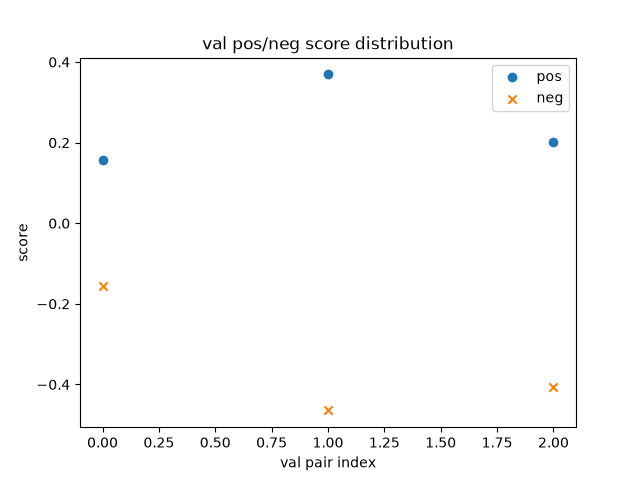
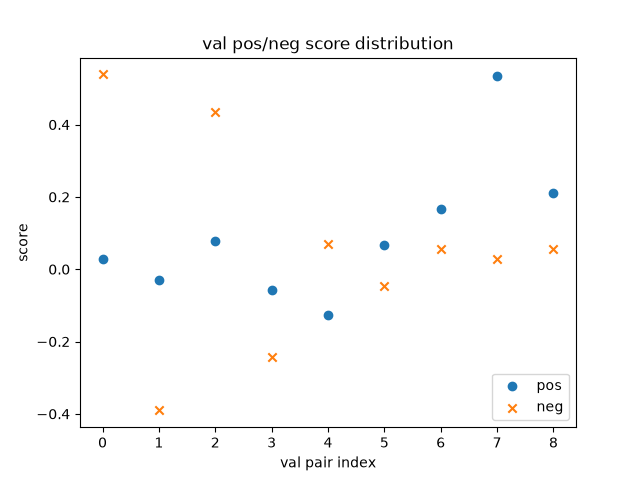
refactor(data): MLP 학습 데이터를 Unsplash pairs.csv/photos.csv로 전환
수동 라벨링 12쌍(label_pairs.json)을 삭제하고, dataset.py가 Unsplash 수집
데이터(45쌍)를 photo_id로 조회하도록 변경 — 이미지 재오픈·CLIP 재계산 불필요.
evaluate_mlp.py의 split_pairs를 테마별 고정 분할로 변경(단순 앞/뒤 분할은
val이 마지막 테마에만 쏠림). 실측: loss 0.205->0.076, val ranking accuracy
66.67%(6/9) — 기존 12쌍(100%)보다 낮음, 원인은 문서에 기록.

diff --git a/tests/ai/test_dataset.py b/tests/ai/test_dataset.py
@@ -1,30 +1,87 @@
-"""Ai/dataset.py 라벨 데이터 로딩 단위 테스트.
+"""Ai/dataset.py 트리플렛/피처 로딩 단위 테스트.
 
-load_label_pairs는 JSON 파싱만 하므로 CLIP 없이 빠르게 실행됨
-(build_feature_vector까지 엮은 검증은 tests/ai/test_dataset_integration.py 참고).
+CSV 파싱 + 딕셔너리 조회만 하므로 CLIP·네트워크 없이 빠르게 실행됨
+(collect_unsplash_data.py가 피처를 이미 계산해 photos.csv에 저장해 두기 때문).
 """
 
-import json
+import numpy as np
+import torch
+from dataset import (
+    DEFAULT_PAIRS_PATH,
+    DEFAULT_PHOTOS_PATH,
+    FEATURE_FIELDS,
+    build_pair_features,
+    load_label_pairs,
+    load_photo_features,
+)
 
-from dataset import DEFAULT_LABEL_PATH, load_label_pairs
+
+def _write_photos_csv(path, rows):
+    import csv
+
+    with open(path, "w", newline="", encoding="utf-8") as f:
+        writer = csv.DictWriter(f, fieldnames=["photo_id", "query", "unsplash_url"] + FEATURE_FIELDS)
+        writer.writeheader()
+        writer.writerows(rows)
+
+
+def _write_pairs_csv(path, rows):
+    import csv
+
+    with open(path, "w", newline="", encoding="utf-8") as f:
+        writer = csv.DictWriter(f, fieldnames=["theme", "pos", "neg"])
+        writer.writeheader()
+        writer.writerows(rows)
 
 
 def test_load_label_pairs_returns_theme_pos_neg_dicts(tmp_path):
-    label_path = tmp_path / "pairs.json"
-    label_path.write_text(
-        json.dumps([{"theme": "테마", "pos": "samples/a.JPG", "neg": "samples/b.JPG"}]),
-        encoding="utf-8",
-    )
+    pairs_path = tmp_path / "pairs.csv"
+    _write_pairs_csv(pairs_path, [{"theme": "minimal", "pos": "p1", "neg": "p2"}])
 
-    pairs = load_label_pairs(label_path)
+    pairs = load_label_pairs(pairs_path)
 
-    assert pairs == [{"theme": "테마", "pos": "samples/a.JPG", "neg": "samples/b.JPG"}]
+    assert pairs == [{"theme": "minimal", "pos": "p1", "neg": "p2"}]
 
 
-def test_default_label_path_points_to_valid_schema():
-    """저장소에 커밋된 실제 라벨 파일(Ai/data/label_pairs.json)이 스키마를 지키는지 확인."""
-    pairs = load_label_pairs(DEFAULT_LABEL_PATH)
+def test_load_photo_features_maps_photo_id_to_11d_vector(tmp_path):
+    photos_path = tmp_path / "photos.csv"
+    feat_values = {field: str(i) for i, field in enumerate(FEATURE_FIELDS)}
+    _write_photos_csv(photos_path, [{"photo_id": "p1", "query": "minimal", "unsplash_url": "u", **feat_values}])
+
+    features = load_photo_features(photos_path)
+
+    assert list(features.keys()) == ["p1"]
+    np.testing.assert_array_equal(features["p1"], np.arange(len(FEATURE_FIELDS), dtype=np.float32))
+
+
+def test_build_pair_features_looks_up_by_photo_id_not_by_reopening_images():
+    pairs = [{"theme": "minimal", "pos": "p1", "neg": "p2"}]
+    photo_features = {
+        "p1": np.array([1.0] * len(FEATURE_FIELDS), dtype=np.float32),
+        "p2": np.array([2.0] * len(FEATURE_FIELDS), dtype=np.float32),
+    }
+
+    feats_pos, feats_neg = build_pair_features(pairs, photo_features)
+
+    assert feats_pos.shape == (1, len(FEATURE_FIELDS))
+    assert feats_neg.shape == (1, len(FEATURE_FIELDS))
+    assert torch.equal(feats_pos[0], torch.from_numpy(photo_features["p1"]))
+    assert torch.equal(feats_neg[0], torch.from_numpy(photo_features["p2"]))
+
+
+def test_default_paths_point_to_valid_committed_data():
+    """저장소에 커밋된 실제 데이터(Ai/data/unsplash/*.csv)가 스키마를 지키는지 확인."""
+    pairs = load_label_pairs(DEFAULT_PAIRS_PATH)
+    photo_features = load_photo_features(DEFAULT_PHOTOS_PATH)
 
     assert len(pairs) > 0
     for pair in pairs:
         assert pair.keys() == {"theme", "pos", "neg"}
+        assert pair["pos"] in photo_features
+        assert pair["neg"] in photo_features
+
+    feats_pos, feats_neg = build_pair_features(pairs, photo_features)
+    assert feats_pos.shape == (len(pairs), len(FEATURE_FIELDS))
+    assert feats_neg.shape == (len(pairs), len(FEATURE_FIELDS))
+    assert torch.isfinite(feats_pos).all()
+    assert torch.isfinite(feats_neg).all()

diff --git a/Ai/dataset.py b/Ai/dataset.py
@@ -1,37 +1,57 @@
-"""라벨 데이터(pos/neg 쌍)를 읽어 build_feature_vector로 피처화 (MLP 학습 입력 준비).
+"""Unsplash pos/neg 트리플렛(pairs.csv) 로딩 + photos.csv에서 피처 조회 (MLP 학습 입력 준비).
 
-흐름: Ai/data/label_pairs.json({theme, pos, neg} 목록) -> 저장소 루트 기준으로
-      사진을 열어 build_feature_vector로 피처화 -> (feats_pos, feats_neg) 텐서 쌍
+흐름: Ai/data/unsplash/pairs.csv({theme, pos, neg} 목록) + Ai/data/unsplash/photos.csv
+      (photo_id -> 11차원 피처) -> photo_id로 피처 조회 -> (feats_pos, feats_neg) 텐서 쌍
 """
 
 from __future__ import annotations
 
-import json
+import csv
 from pathlib import Path
 
 import numpy as np
 import torch
 
-from mlp import build_feature_vector
+DEFAULT_PAIRS_PATH = Path(__file__).resolve().parent / "data" / "unsplash" / "pairs.csv"
+DEFAULT_PHOTOS_PATH = Path(__file__).resolve().parent / "data" / "unsplash" / "photos.csv"
 
-REPO_ROOT = Path(__file__).resolve().parent.parent
-DEFAULT_LABEL_PATH = Path(__file__).resolve().parent / "data" / "label_pairs.json"
+# collect_unsplash_data.py의 FEATURE_FIELDS와 동일한 순서 — photos.csv 컬럼이 이 순서로 저장돼 있음
+FEATURE_FIELDS = [
+    "clip_sim", "mean_h", "mean_s", "mean_v", "sat_std", "val_std", "contrast",
+    "hue_hist_0", "hue_hist_1", "hue_hist_2", "hue_hist_3",
+]
 
 
-def load_label_pairs(path: str | Path = DEFAULT_LABEL_PATH) -> list[dict]:
-    """라벨 JSON({theme, pos, neg} 리스트)을 읽어 그대로 반환."""
+def load_label_pairs(path: str | Path = DEFAULT_PAIRS_PATH) -> list[dict]:
+    """pairs.csv({theme, pos, neg} 트리플렛)를 읽어 딕셔너리 리스트로 반환."""
     with open(path, encoding="utf-8") as f:
-        return json.load(f)
+        return list(csv.DictReader(f))
 
 
-def build_pair_features(pairs: list[dict]) -> tuple[torch.Tensor, torch.Tensor]:
-    """라벨 쌍 목록 -> (feats_pos, feats_neg) 텐서. mlp.rank_forward에 바로 사용 가능.
+def load_photo_features(path: str | Path = DEFAULT_PHOTOS_PATH) -> dict[str, np.ndarray]:
+    """photos.csv를 photo_id -> 11차원 피처 벡터 딕셔너리로 로딩."""
+    features = {}
+    with open(path, encoding="utf-8") as f:
+        for row in csv.DictReader(f):
+            features[row["photo_id"]] = np.array(
+                [float(row[field]) for field in FEATURE_FIELDS], dtype=np.float32
+            )
+    return features
 
-    쌍의 pos/neg 경로는 저장소 루트 기준 상대 경로("samples/...")로 저장돼 있어
-    REPO_ROOT를 기준으로 절대 경로로 바꿔 읽는다.
+
+def build_pair_features(
+    pairs: list[dict], photo_features: dict[str, np.ndarray] | None = None
+) -> tuple[torch.Tensor, torch.Tensor]:
+    """트리플렛 목록 -> (feats_pos, feats_neg) 텐서. mlp.rank_forward에 바로 사용 가능.
+
+    photos.csv에 미리 계산된 피처를 photo_id로 조회하기만 해서, 사진을 다시 열거나
+    CLIP을 재계산하지 않는다(collect_unsplash_data.py가 이미 다 계산해 둠).
     """
-    feats_pos = [build_feature_vector(REPO_ROOT / pair["pos"], pair["theme"]) for pair in pairs]
-    feats_neg = [build_feature_vector(REPO_ROOT / pair["neg"], pair["theme"]) for pair in pairs]
+    if photo_features is None:
+        photo_features = load_photo_features()
+
+    feats_pos = [photo_features[pair["pos"]] for pair in pairs]
+    feats_neg = [photo_features[pair["neg"]] for pair in pairs]
 
     return torch.from_numpy(np.stack(feats_pos)), torch.from_numpy(np.stack(feats_neg))
 

diff --git a/Ai/evaluate_mlp.py b/Ai/evaluate_mlp.py
@@ -1,6 +1,6 @@
 """학습된 ScoringMLP의 validation ranking accuracy 확인 + loss curve/점수 분포 시각화.
 
-흐름: Ai/data/label_pairs.json -> dataset.load_label_pairs -> split_pairs로 train(9)/val(3) 고정 분할
+흐름: Ai/data/unsplash/pairs.csv -> dataset.load_label_pairs -> split_pairs로 테마별 train/val 고정 분할
       -> train_mlp.train(train)으로 학습 -> val에 대해 ranking accuracy 측정
       -> loss curve, val 점수 분포를 docs/ai/output/에 PNG로 저장
 """
@@ -21,12 +21,23 @@ from train_mlp import train
 
 REPO_ROOT = Path(__file__).resolve().parent.parent
 OUTPUT_DIR = REPO_ROOT / "docs" / "ai" / "output"
-N_VAL = 3
+N_VAL_PER_THEME = 3
 
 
-def split_pairs(pairs: list[dict], n_val: int = N_VAL) -> tuple[list[dict], list[dict]]:
-    """라벨 쌍을 앞쪽 train / 뒤쪽 val로 고정 분할 (데이터가 12쌍뿐이라 랜덤 분할 대신 고정)."""
-    return pairs[:-n_val], pairs[-n_val:]
+def split_pairs(pairs: list[dict], n_val_per_theme: int = N_VAL_PER_THEME) -> tuple[list[dict], list[dict]]:
+    """테마별로 뒤쪽 n_val_per_theme개를 val, 나머지를 train으로 고정 분할.
+
+    pairs.csv가 테마별로 연속해서 묶여 있어(테마당 15행), 앞/뒤 단순 분할을 하면
+    val이 마지막 테마 하나에만 쏠린다 — 테마마다 나눠야 val이 모든 테마를 대표한다.
+    """
+    train_pairs, val_pairs = [], []
+    by_theme: dict[str, list[dict]] = {}
+    for pair in pairs:
+        by_theme.setdefault(pair["theme"], []).append(pair)
+    for theme_pairs in by_theme.values():
+        train_pairs.extend(theme_pairs[:-n_val_per_theme])
+        val_pairs.extend(theme_pairs[-n_val_per_theme:])
+    return train_pairs, val_pairs
 
 
 def ranking_accuracy(model: ScoringMLP, feats_pos: torch.Tensor, feats_neg: torch.Tensor) -> float:

diff --git a/tests/ai/test_evaluate_mlp.py b/tests/ai/test_evaluate_mlp.py
@@ -8,18 +8,20 @@ import pytest
 import torch
 from torch import nn
 
-from evaluate_mlp import N_VAL, plot_loss_curve, plot_score_distribution, ranking_accuracy, split_pairs
+from evaluate_mlp import N_VAL_PER_THEME, plot_loss_curve, plot_score_distribution, ranking_accuracy, split_pairs
 
 
-def test_split_pairs_default_keeps_9_train_3_val():
-    pairs = [{"theme": "t", "pos": f"p{i}", "neg": f"n{i}"} for i in range(12)]
+def test_split_pairs_splits_each_theme_separately_not_just_the_last_rows():
+    """테마별로 연속해서 묶인 입력이라도, val이 한 테마에만 쏠리지 않고 테마마다 나뉘어야 한다."""
+    pairs = [{"theme": "a", "pos": f"pa{i}", "neg": f"na{i}"} for i in range(15)]
+    pairs += [{"theme": "b", "pos": f"pb{i}", "neg": f"nb{i}"} for i in range(15)]
 
     train_pairs, val_pairs = split_pairs(pairs)
 
-    assert len(train_pairs) == 12 - N_VAL
-    assert len(val_pairs) == N_VAL
-    assert train_pairs == pairs[: 12 - N_VAL]
-    assert val_pairs == pairs[12 - N_VAL :]
+    assert len(val_pairs) == 2 * N_VAL_PER_THEME
+    assert len(train_pairs) == len(pairs) - 2 * N_VAL_PER_THEME
+    assert sum(1 for p in val_pairs if p["theme"] == "a") == N_VAL_PER_THEME
+    assert sum(1 for p in val_pairs if p["theme"] == "b") == N_VAL_PER_THEME
 
 
 class _SumModel(nn.Module):

diff --git a/Ai/train_mlp.py b/Ai/train_mlp.py
@@ -1,6 +1,6 @@
 """ScoringMLP 학습 스크립트 (rank_forward + margin_ranking_loss).
 
-흐름: Ai/data/label_pairs.json -> dataset.load_label_pairs -> dataset.build_pair_features
+흐름: Ai/data/unsplash/pairs.csv -> dataset.load_label_pairs -> dataset.build_pair_features
       -> ScoringMLP를 pairwise ranking loss로 학습
 """
 

diff --git a/docs/ai/Dataset.md b/docs/ai/Dataset.md
@@ -1,38 +1,41 @@
-# 라벨 데이터 로딩 (`Ai/dataset.py`)
+# 트리플렛/피처 로딩 (`Ai/dataset.py`)
 
-> 작성일: 2026-08-27 · 작성자: 진오 · 관련 이슈: test/mlp-학습-파이프라인/4
+> 작성일: 2026-08-27 · 최종 수정: 2026-09-15 · 작성자: 진오 · 관련 이슈: test/mlp-학습-파이프라인/4, #9
 
 ## 📌 목적
-`Ai/data/label_pairs.json`의 라벨 쌍(theme, pos, neg)을 읽어 `build_feature_vector`로 피처화하고, 학습 루프에 바로 넣을 수 있는 배치 텐서로 만든다.
+`Ai/data/unsplash/pairs.csv`의 `{theme, pos, neg}` 트리플렛을 읽고, `Ai/data/unsplash/photos.csv`에 미리 계산돼 있는 11차원 피처를 `photo_id`로 조회해 학습 루프에 바로 넣을 수 있는 배치 텐서로 만든다.
 
 ## 🧭 파이프라인 상 위치
-"MLP 모델 설계" 단계와 (아직 미구현인) 학습 스크립트 사이의 데이터 로더.
+"MLP 모델 설계" 단계와 학습 스크립트(`Ai/train_mlp.py`) 사이의 데이터 로더.
 
 - Layer: Layer 1 · 테마 적합도 스코어링 > 학습 데이터 로딩
-- 이전 단계: 라벨 데이터(`Ai/data/label_pairs.json`) + `build_feature_vector`(`mlp.py`)
-- 다음 단계: 학습 스크립트(`Ai/train_mlp.py`, 미구현) — `rank_forward` + `margin_ranking_loss`
+- 이전 단계: `Ai/collect_unsplash_data.py`가 만든 `photos.csv`(피처)/`pairs.csv`(트리플렛)
+- 다음 단계: 학습 스크립트(`Ai/train_mlp.py`) — `rank_forward` + `margin_ranking_loss`, 평가 스크립트(`Ai/evaluate_mlp.py`)
 
 ## 🔧 입출력 스펙
 
 | 함수 | 입력 | 출력 | 설명 |
 |---|---|---|---|
-| `load_label_pairs` | `path` (기본값 `Ai/data/label_pairs.json`) | `list[dict]` | `{theme, pos, neg}` 라벨 쌍을 그대로 반환 |
-| `build_pair_features` | `pairs: list[dict]` | `(feats_pos, feats_neg)` (각 `torch.Tensor`, shape `(N, 11)`) | 쌍마다 pos/neg 사진을 `build_feature_vector`로 피처화해 배치로 묶음 |
+| `load_label_pairs` | `path` (기본값 `Ai/data/unsplash/pairs.csv`) | `list[dict]` | `{theme, pos, neg}` 트리플렛을 그대로 반환 (`pos`/`neg`는 `photo_id`) |
+| `load_photo_features` | `path` (기본값 `Ai/data/unsplash/photos.csv`) | `dict[str, np.ndarray]` | `photo_id -> 11차원 피처 벡터` 딕셔너리 |
+| `build_pair_features` | `pairs: list[dict], photo_features: dict \| None` | `(feats_pos, feats_neg)` (각 `torch.Tensor`, shape `(N, 11)`) | 트리플렛의 `pos`/`neg` id로 `photo_features`를 조회해 배치로 묶음 |
 
 ## 🧠 설계 결정과 이유
 
-- 결정: `build_pair_features`는 사진마다 `build_feature_vector`를 그대로 재사용 (CLIP/색감 피처를 직접 다시 호출하지 않음)
-  - 이유: 피처 추출 로직(11d 구성)의 단일 소스를 `mlp.py`에 유지하기 위해 — 두 곳에서 같은 로직을 따로 구현하면 나중에 `INPUT_DIM`이 바뀔 때 한쪽만 갱신되는 버그가 생기기 쉬움
-- 결정: 라벨 쌍의 `pos`/`neg` 경로는 저장소 루트 기준 상대 경로(`"samples/..."`)로 저장돼 있고, `REPO_ROOT`(= `Ai/`의 부모 디렉터리)를 기준으로 절대 경로로 바꿔 읽음
-  - 이유: `pytest`(작업 디렉터리가 저장소 루트)와 `python Ai/dataset.py`(작업 디렉터리가 `Ai/`일 수 있음)처럼 실행 방식에 따라 현재 작업 디렉터리(cwd)가 달라져도 항상 같은 파일을 가리키게 하기 위해
-- 결정: `feats_pos`/`feats_neg`를 각각 리스트로 모은 뒤 `np.stack`으로 `(N, 11)` 배열을 만들고 `torch.from_numpy`로 변환
+- 결정(변경): 사진마다 `build_feature_vector`를 다시 호출하는 대신, `photos.csv`에 미리 계산된 피처를 `photo_id`로 조회
+  - 이유: 원래 `Ai/data/label_pairs.json`(수동 라벨링 12쌍) 시절엔 매번 이미지를 열어 CLIP을 재계산했는데, Unsplash 데이터로 전환하면서(이슈 #9) 이미지 자체를 로컬에 저장하지 않기로 결정 — 애초에 다시 열 이미지가 없어서, `collect_unsplash_data.py`가 수집 시점에 한 번 계산해 둔 피처를 재사용하는 구조로 바뀜. 부수적으로 이전 TODO였던 "같은 사진이 여러 쌍에 등장하면 CLIP을 반복 계산"하는 비효율도 자연히 해소됨(딕셔너리 조회 1회로 끝)
+- 결정: `label_pairs.json`(JSON, 이미지 경로 기반) 대신 `pairs.csv`(CSV, `photo_id` 기반)를 읽음 — `load_label_pairs` 함수명은 유지
+  - 이유: `train_mlp.py`/`evaluate_mlp.py`가 이 함수명으로 import하고 있어, 이름을 유지하면 두 스크립트를 전혀 건드리지 않고 데이터 소스만 교체할 수 있음(사용자가 "dataset.py의 로딩 로직만 바꾸자"고 명시적으로 요청)
+- 결정: `build_pair_features`가 `photo_features` 딕셔너리를 선택적 인자로 받음(없으면 기본 경로에서 로딩)
+  - 이유: 테스트에서 실제 CSV 파일 없이도 가짜 피처 딕셔너리를 주입해 순수 로직만 검증할 수 있게 하기 위해 — 이 덕분에 이 모듈은 더 이상 CLIP/네트워크에 의존하지 않아 `tests/ai/test_dataset_integration.py`(통합 테스트)가 필요 없어짐(삭제)
+- 결정: `feats_pos`/`feats_neg`를 각각 리스트로 모은 뒤 `np.stack`으로 `(N, 11)` 배열을 만들고 `torch.from_numpy`로 변환 (유지)
   - 이유: `rank_forward`/`margin_ranking_loss`가 배치 입력을 기대하므로, 쌍 하나하나를 개별 처리하지 않고 N개를 한 번에 forward pass 돌릴 수 있는 형태로 미리 묶어둠
 
 ## ⚙ 동작 흐름
 
 ```python
-pairs = load_label_pairs()  # Ai/data/label_pairs.json -> [{theme, pos, neg}, ...]
-feats_pos, feats_neg = build_pair_features(pairs)  # (N, 11), (N, 11)
+pairs = load_label_pairs()  # Ai/data/unsplash/pairs.csv -> [{theme, pos, neg}, ...]
+feats_pos, feats_neg = build_pair_features(pairs)  # photos.csv에서 조회 -> (N, 11), (N, 11)
 
 # 학습 스크립트(Ai/train_mlp.py)에서:
 # model, loss_history = train(feats_pos, feats_neg)
@@ -40,19 +43,20 @@ feats_pos, feats_neg = build_pair_features(pairs)  # (N, 11), (N, 11)
 
 ## ⚠ 알려진 제약 / TODO
 
-- [ ] 라벨 파일 하나(`Ai/data/label_pairs.json`)만 지원 — 여러 라벨 파일을 합치거나 증분 라벨을 병합하는 기능은 없음
-- [ ] 같은 사진이 여러 쌍에 등장해도 그때마다 CLIP 임베딩을 다시 계산함 — 지금은 라벨이 12쌍뿐이라 문제없지만, 데이터가 늘어나면 사진별 피처 캐싱을 고려해야 함
-- [x] 학습 스크립트는 `Ai/train_mlp.py`에 구현됨 — 이 모듈은 그 입력 텐서를 만드는 데까지만 책임지는 역할 분리 유지
+- [x] ~~같은 사진이 여러 쌍에 등장해도 그때마다 CLIP 임베딩을 다시 계산함~~ — Unsplash 데이터 전환으로 해소(피처를 한 번만 계산해 CSV에 저장, 이후로는 조회만)
+- [ ] 라벨 파일 하나(`Ai/data/unsplash/pairs.csv`)만 지원 — 여러 라벨 파일을 합치거나 증분 라벨을 병합하는 기능은 없음
+- [x] 학습 스크립트는 `Ai/train_mlp.py`, 평가 스크립트는 `Ai/evaluate_mlp.py`에 구현됨 — 이 모듈은 그 입력 텐서를 만드는 데까지만 책임지는 역할 분리 유지
 
 ## 🧪 사용 예시
 
 ```bash
 python Ai/dataset.py
-# 출력 예: loaded 12 pairs -> feats_pos (12, 11), feats_neg (12, 11)
+# 출력 예: loaded 45 pairs -> feats_pos (45, 11), feats_neg (45, 11)
 ```
 
 ## 🔗 참고
 
-- `docs/ai/Mlp_scoring.md` — `build_feature_vector`, 라벨 데이터 포맷(JSON) 선택 이유
-- `Ai/data/label_pairs.json` — 실제 라벨 쌍 데이터
-- GitHub 이슈 #4 — MLP 스코어링 모델 학습 파이프라인 구축
+- `docs/ai/Collect_unsplash_data.md` — `photos.csv`/`pairs.csv`를 만드는 수집 스크립트, 스키마 설계 이유
+- `docs/ai/Mlp_scoring.md` — `build_feature_vector`(11d) 세부 설계
+- `Ai/data/unsplash/photos.csv`, `pairs.csv` — 실제 데이터
+- GitHub 이슈 #4 — MLP 스코어링 모델 학습 파이프라인 구축, #9 — Unsplash 데이터 수집

diff --git a/docs/ai/Mlp_scoring.md b/docs/ai/Mlp_scoring.md
@@ -39,8 +39,9 @@
   - 이유: 설계 문서 요구사항 — 시스템이 임의로 사진을 지우지 않고, 근거(점수)와 함께 사용자에게 제시해 최종 결정은 사용자가 함
 - 결정: 입력 차원 11 = CLIP 유사도(1, `clip.py`) + 색감 피처(10, `features.py`)
   - 이유: Notion 설계 문서의 "약 11차원" 스펙에 맞춤. 색감 피처 세부 구성은 `Color_features.md` 참고
-- 결정: 학습 쌍(pos/neg) 라벨 데이터는 `Ai/data/label_pairs.json`에 `{theme, pos, neg}` 리스트로 저장
-  - 이유: 사용자 유지/제외 행동으로부터 자동 수집하는 파이프라인(TODO)이 아직 없어, 학습 루프 자체가 동작하는지부터 검증하기 위해 `samples/`의 사진들로 "미니멀한 감성 사진" 테마 기준 12쌍을 수동 라벨링. pos/neg는 절대 점수가 아니라 상대 비교이므로 CSV보다 스키마 확장(테마 추가 등)이 쉬운 JSON을 선택. 추후 사용자 행동 기반 수집으로 전환해도 같은 포맷을 재사용 가능
+- 결정(초기, 이후 대체됨): 학습 쌍(pos/neg) 라벨 데이터를 `Ai/data/label_pairs.json`에 `{theme, pos, neg}` 리스트로 저장
+  - 이유: 사용자 유지/제외 행동으로부터 자동 수집하는 파이프라인(TODO)이 아직 없어, 학습 루프 자체가 동작하는지부터 검증하기 위해 `samples/`의 사진들로 "미니멀한 감성 사진" 테마 기준 12쌍을 수동 라벨링. pos/neg는 절대 점수가 아니라 상대 비교이므로 CSV보다 스키마 확장(테마 추가 등)이 쉬운 JSON을 선택
+  - **대체(2026-09-15)**: 실사용자 행동 기반 수집(Notion 설계 문서 8절)을 기다리는 대신, Unsplash API로 규모를 키운 `{theme, pos, neg}` 트리플렛(45쌍, `Ai/data/unsplash/pairs.csv`)으로 전환(이슈 #9) — 원본 이미지 대신 미리 계산한 피처(`photos.csv`)를 `photo_id`로 조회하는 구조라 CSV를 사용. `Ai/data/label_pairs.json`은 삭제됨, 자세한 설계는 `docs/ai/Collect_unsplash_data.md` 참고
 - 결정: `Ai/train_mlp.py`는 미니배치 없이 매 epoch 전체 쌍을 한 번에 통과시키는 풀배치(full-batch) 학습, optimizer는 Adam(lr=1e-3), epochs=100 기본값
   - 이유: 라벨이 12쌍뿐이라 미니배치로 쪼갤 이유가 없고, 지금 목표는 최적 하이퍼파라미터 탐색이 아니라 학습 루프(forward → loss → backward → step)가 실제로 도는지 검증하는 것이라 합리적인 기본값을 그대로 사용. 데이터가 늘어나면 미니배치/에폭 수 재검토 필요
 - 결정: `Ai/evaluate_mlp.py`의 `split_pairs`는 랜덤 분할이 아니라 앞 9쌍(train)/뒤 3쌍(val) 고정 분할
@@ -69,8 +70,8 @@ keep_ids, remove_candidates = suggest_removal(model, feats, photo_ids, threshold
 
 ## ⚠ 알려진 제약 / TODO
 
-- [x] 학습 루프는 `Ai/train_mlp.py`에 구현 (Adam + `margin_ranking_loss`, 풀배치). 실측(라벨 12쌍, 100 epoch): loss 0.1836 → 0.0000 — 데이터가 12쌍뿐이라 완전히 암기(overfit)한 수준이지만, 학습 루프 자체가 정상 동작함은 확인됨. 일반화 성능(ranking accuracy 등)은 아래 항목에서 별도 검증 필요
-- [x] Validation ranking accuracy 측정 및 loss curve/점수 분포 시각화는 `Ai/evaluate_mlp.py`에 구현 (train 9쌍/val 3쌍 고정 분할). 실측: val ranking accuracy 100%(3/3), loss curve는 20 epoch 안에 0 근처로 수렴, 점수 분포 산점도에서 val 쌍 3개 모두 pos > neg로 분리됨 (`docs/ai/output/loss_curve.png`, `docs/ai/output/score_distribution.png`) — 다만 val이 3쌍뿐이라 100%는 통계적으로 약함(한 쌍만 틀려도 66%로 하락), 데이터가 12쌍뿐인 근본적 한계를 벗어나지 못함
+- [x] 학습 루프는 `Ai/train_mlp.py`에 구현 (Adam + `margin_ranking_loss`, 풀배치). 라벨 데이터는 수동 라벨링(12쌍, `label_pairs.json`)에서 Unsplash API 준자동 수집(`Ai/collect_unsplash_data.py`, 45쌍, `{theme, pos, neg}`)으로 전환됨(이슈 #9) — `dataset.py`가 이제 `Ai/data/unsplash/pairs.csv`+`photos.csv`에서 피처를 조회한다(이미지 재오픈·CLIP 재계산 없음)
+- [x] Validation ranking accuracy 측정 및 loss curve/점수 분포 시각화는 `Ai/evaluate_mlp.py`에 구현. Unsplash 데이터(45쌍)는 테마별로 연속 정렬돼 있어 `split_pairs`를 테마별 고정 분할(테마당 train 12/val 3, 총 train 36/val 9)로 변경 — 단순 앞/뒤 분할은 val이 마지막 테마 하나에만 쏠리는 문제가 있었음. 실측(2026-09-15): loss 0.205 → 0.076(100 epoch, 우하향하나 수렴 전), val ranking accuracy 66.67%(6/9) — 손으로 고른 극단적 대조 사진(미니멀 vs 복잡한 장면)이었던 기존 12쌍과 달리, Unsplash 같은-테마 사진들끼리는 색감 차이가 더 미묘해 분리가 약함 (`docs/ai/output/loss_curve.png`, `docs/ai/output/score_distribution.png`) — 정답 라벨(같은 테마=pos)의 약한 지도(weak supervision) 특성상 어느 정도 예상된 결과, epoch 수를 늘리거나 데이터를 더 모으면 개선 여지 있음
 - [ ] 사용자 유지/제외 행동으로부터 학습 쌍(pos, neg)을 수집·저장하는 파이프라인 미구현 (Notion 설계 문서 8절)
 - [ ] `threshold=0.35`는 설계 문서의 예시값을 그대로 사용 중 — 실 데이터 기반 검증 필요, "상대 기준(그룹 내 하위 N%)" 방식으로 전환 검토 (Notion 설계 문서 7절)
 - [ ] Precision/Recall 등 추가 평가 지표 측정 로직 미구현 (ranking accuracy는 구현됨)
